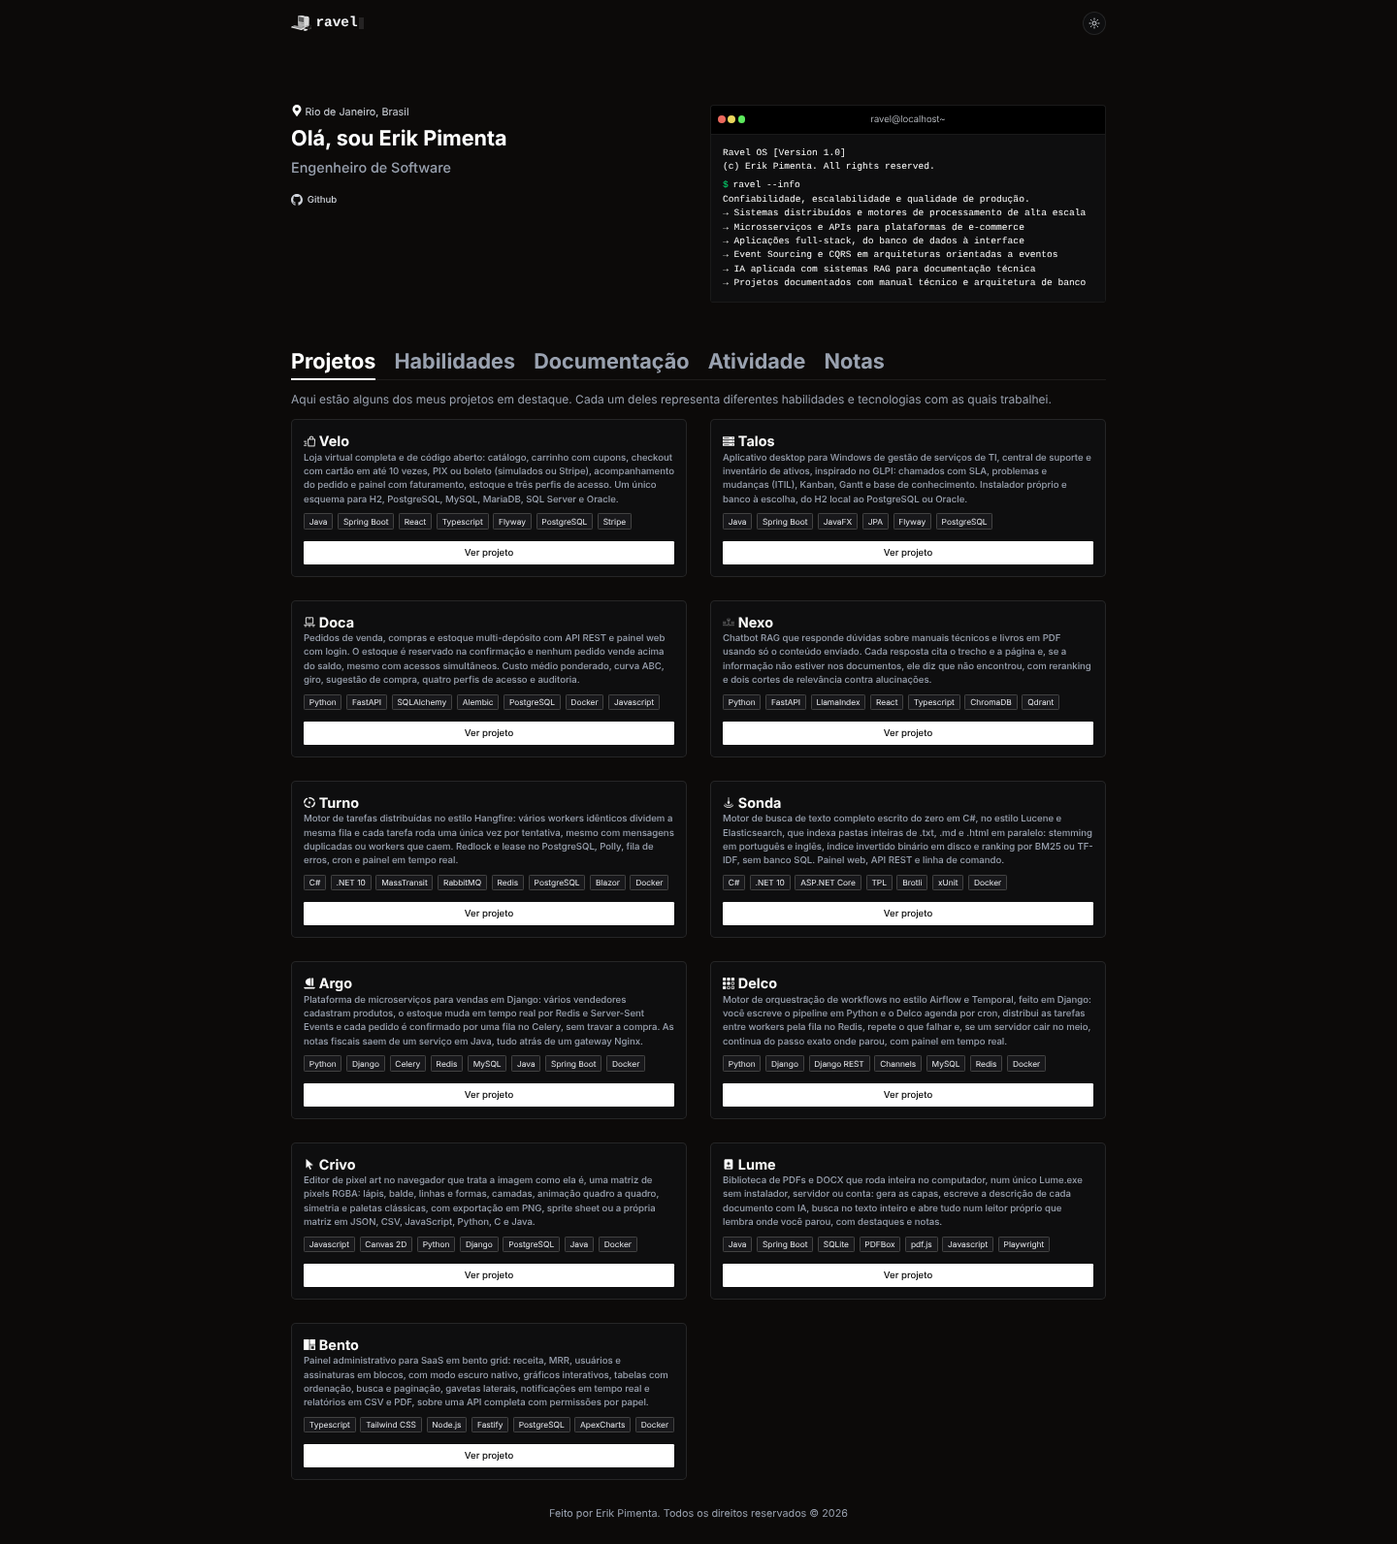
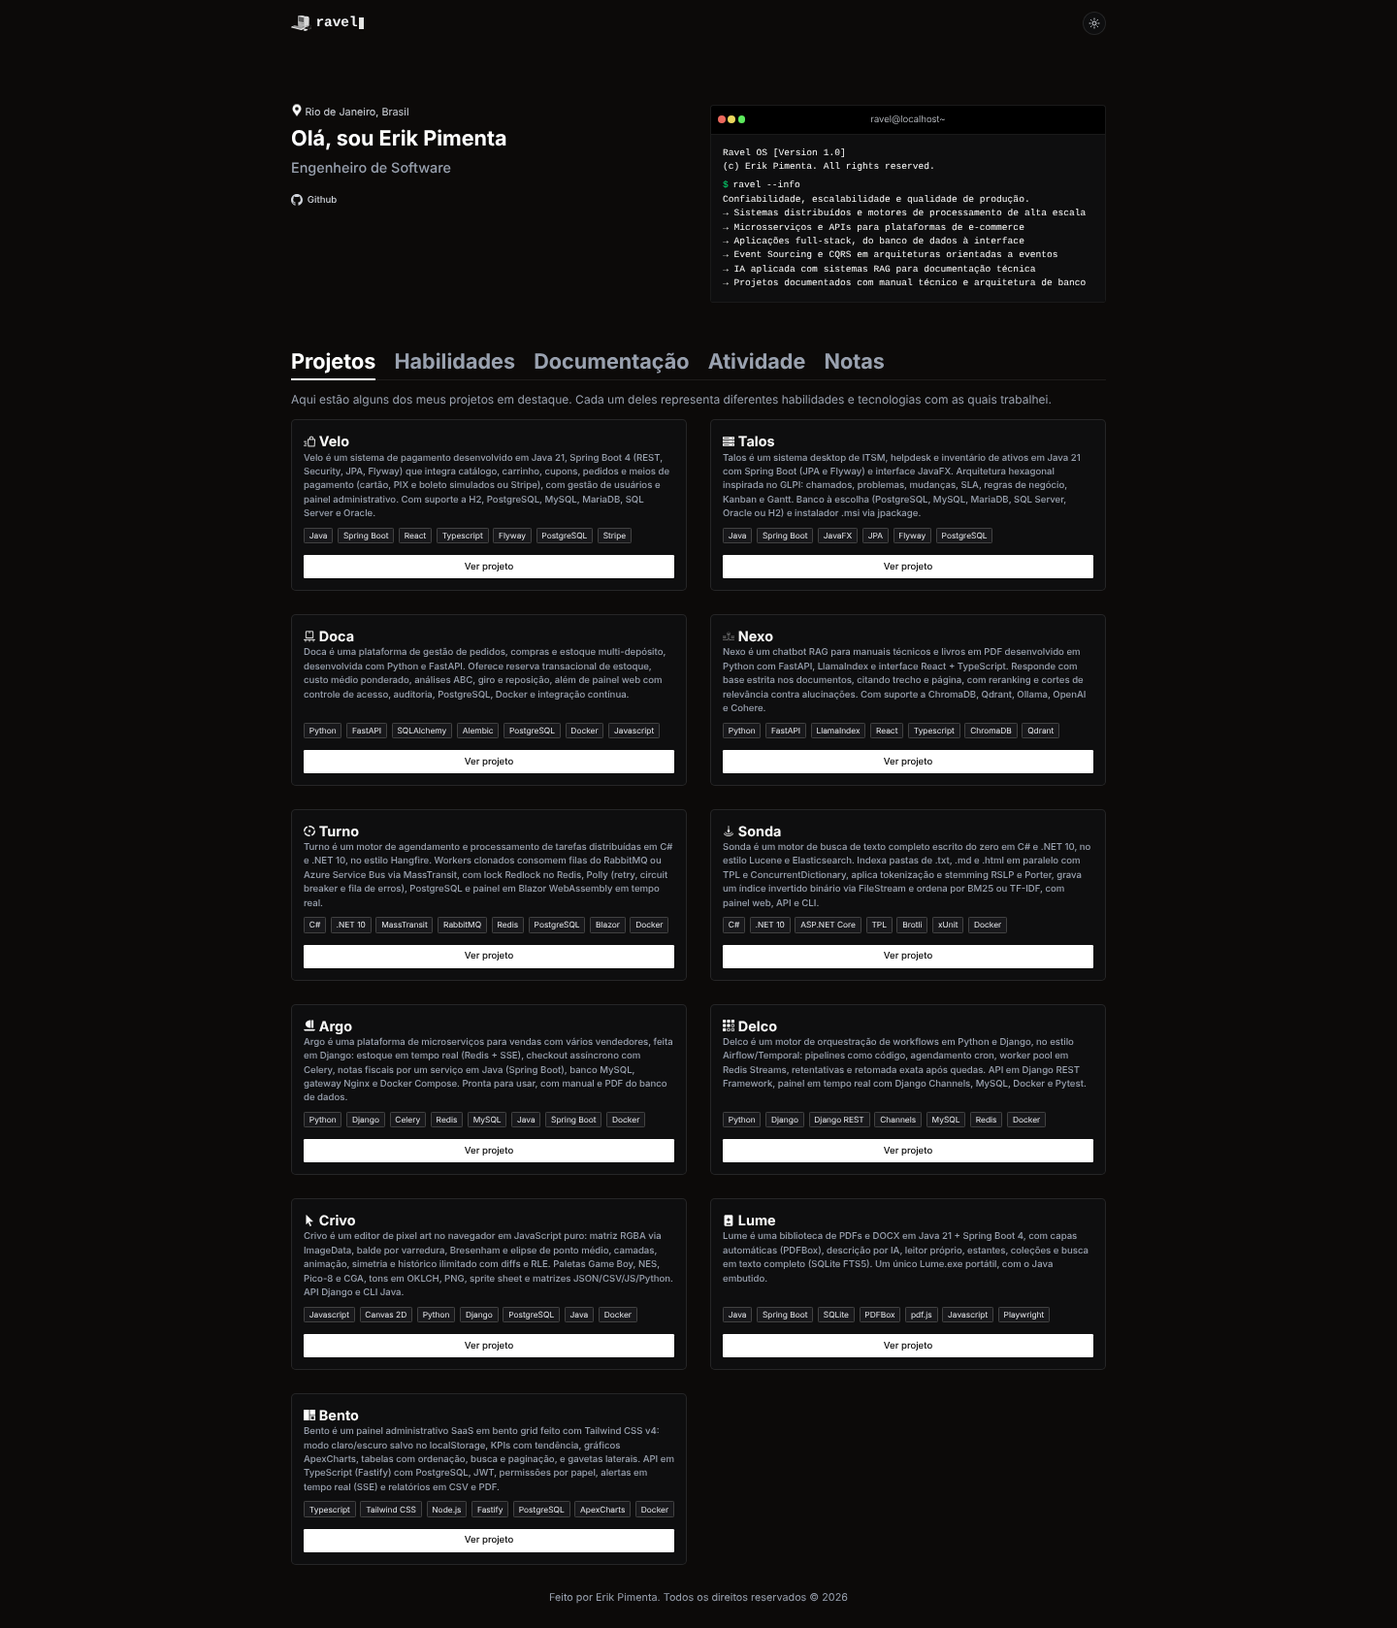
Descrições dos projetos iguais às do GitHub

diff --git a/js/projetos.js b/js/projetos.js
@@ -2,77 +2,77 @@ const PROJETOS = [
 	{
 		titulo: "Velo",
 		icone: "assets/projetos/velo.png?v=3",
-		descricao: "Loja virtual completa e de código aberto: catálogo, carrinho com cupons, checkout com cartão em até 10 vezes, PIX ou boleto (simulados ou Stripe), acompanhamento do pedido e painel com faturamento, estoque e três perfis de acesso. Um único esquema para H2, PostgreSQL, MySQL, MariaDB, SQL Server e Oracle.",
+		descricao: "Velo é um sistema de pagamento desenvolvido em Java 21, Spring Boot 4 (REST, Security, JPA, Flyway) que integra catálogo, carrinho, cupons, pedidos e meios de pagamento (cartão, PIX e boleto simulados ou Stripe), com gestão de usuários e painel administrativo. Com suporte a H2, PostgreSQL, MySQL, MariaDB, SQL Server e Oracle.",
 		link: "https://github.com/ravelroot/Payment-and-Checkout-System",
 		tecnologias: ["Java", "Spring Boot", "React", "Typescript", "Flyway", "PostgreSQL", "Stripe"]
 	},
 	{
 		titulo: "Talos",
 		icone: "assets/projetos/talos.png?v=2",
-		descricao: "Aplicativo desktop para Windows de gestão de serviços de TI, central de suporte e inventário de ativos, inspirado no GLPI: chamados com SLA, problemas e mudanças (ITIL), Kanban, Gantt e base de conhecimento. Instalador próprio e banco à escolha, do H2 local ao PostgreSQL ou Oracle.",
+		descricao: "Talos é um sistema desktop de ITSM, helpdesk e inventário de ativos em Java 21 com Spring Boot (JPA e Flyway) e interface JavaFX. Arquitetura hexagonal inspirada no GLPI: chamados, problemas, mudanças, SLA, regras de negócio, Kanban e Gantt. Banco à escolha (PostgreSQL, MySQL, MariaDB, SQL Server, Oracle ou H2) e instalador .msi via jpackage.",
 		link: "https://github.com/ravelroot/Information-Technology-Service-Management",
 		tecnologias: ["Java", "Spring Boot", "JavaFX", "JPA", "Flyway", "PostgreSQL"]
 	},
 	{
 		titulo: "Doca",
 		icone: "assets/projetos/doca.png",
-		descricao: "Pedidos de venda, compras e estoque multi-depósito com API REST e painel web com login. O estoque é reservado na confirmação e nenhum pedido vende acima do saldo, mesmo com acessos simultâneos. Custo médio ponderado, curva ABC, giro, sugestão de compra, quatro perfis de acesso e auditoria.",
+		descricao: "Doca é uma plataforma de gestão de pedidos, compras e estoque multi-depósito, desenvolvida com Python e FastAPI. Oferece reserva transacional de estoque, custo médio ponderado, análises ABC, giro e reposição, além de painel web com controle de acesso, auditoria, PostgreSQL, Docker e integração contínua.",
 		link: "https://github.com/ravelroot/Order-and-Inventory-System",
 		tecnologias: ["Python", "FastAPI", "SQLAlchemy", "Alembic", "PostgreSQL", "Docker", "Javascript"]
 	},
 	{
 		titulo: "Nexo",
 		icone: "assets/projetos/nexo.png",
-		descricao: "Chatbot RAG que responde dúvidas sobre manuais técnicos e livros em PDF usando só o conteúdo enviado. Cada resposta cita o trecho e a página e, se a informação não estiver nos documentos, ele diz que não encontrou, com reranking e dois cortes de relevância contra alucinações.",
+		descricao: "Nexo é um chatbot RAG para manuais técnicos e livros em PDF desenvolvido em Python com FastAPI, LlamaIndex e interface React + TypeScript. Responde com base estrita nos documentos, citando trecho e página, com reranking e cortes de relevância contra alucinações. Com suporte a ChromaDB, Qdrant, Ollama, OpenAI e Cohere.",
 		link: "https://github.com/ravelroot/Retrieval-Augmented-QA-System",
 		tecnologias: ["Python", "FastAPI", "LlamaIndex", "React", "Typescript", "ChromaDB", "Qdrant"]
 	},
 	{
 		titulo: "Turno",
 		icone: "assets/projetos/turno.png",
-		descricao: "Motor de tarefas distribuídas no estilo Hangfire: vários workers idênticos dividem a mesma fila e cada tarefa roda uma única vez por tentativa, mesmo com mensagens duplicadas ou workers que caem. Redlock e lease no PostgreSQL, Polly, fila de erros, cron e painel em tempo real.",
+		descricao: "Turno é um motor de agendamento e processamento de tarefas distribuídas em C# e .NET 10, no estilo Hangfire. Workers clonados consomem filas do RabbitMQ ou Azure Service Bus via MassTransit, com lock Redlock no Redis, Polly (retry, circuit breaker e fila de erros), PostgreSQL e painel em Blazor WebAssembly em tempo real.",
 		link: "https://github.com/ravelroot/Distributed-Task-Processing-Engine",
 		tecnologias: ["C#", ".NET 10", "MassTransit", "RabbitMQ", "Redis", "PostgreSQL", "Blazor", "Docker"]
 	},
 	{
 		titulo: "Sonda",
 		icone: "assets/projetos/sonda.png",
-		descricao: "Motor de busca de texto completo escrito do zero em C#, no estilo Lucene e Elasticsearch, que indexa pastas inteiras de .txt, .md e .html em paralelo: stemming em português e inglês, índice invertido binário em disco e ranking por BM25 ou TF-IDF, sem banco SQL. Painel web, API REST e linha de comando.",
+		descricao: "Sonda é um motor de busca de texto completo escrito do zero em C# e .NET 10, no estilo Lucene e Elasticsearch. Indexa pastas de .txt, .md e .html em paralelo com TPL e ConcurrentDictionary, aplica tokenização e stemming RSLP e Porter, grava um índice invertido binário via FileStream e ordena por BM25 ou TF-IDF, com painel web, API e CLI.",
 		link: "https://github.com/ravelroot/Inverted-Index-Search-Engine",
 		tecnologias: ["C#", ".NET 10", "ASP.NET Core", "TPL", "Brotli", "xUnit", "Docker"]
 	},
 	{
 		titulo: "Argo",
 		icone: "assets/projetos/argo.png?v=2",
-		descricao: "Plataforma de microserviços para vendas em Django: vários vendedores cadastram produtos, o estoque muda em tempo real por Redis e Server-Sent Events e cada pedido é confirmado por uma fila no Celery, sem travar a compra. As notas fiscais saem de um serviço em Java, tudo atrás de um gateway Nginx.",
+		descricao: "Argo é uma plataforma de microserviços para vendas com vários vendedores, feita em Django: estoque em tempo real (Redis + SSE), checkout assíncrono com Celery, notas fiscais por um serviço em Java (Spring Boot), banco MySQL, gateway Nginx e Docker Compose. Pronta para usar, com manual e PDF do banco de dados.",
 		link: "https://github.com/ravelroot/E-commerce-Microservices-Platform",
 		tecnologias: ["Python", "Django", "Celery", "Redis", "MySQL", "Java", "Spring Boot", "Docker"]
 	},
 	{
 		titulo: "Delco",
 		icone: "assets/projetos/delco.png",
-		descricao: "Motor de orquestração de workflows no estilo Airflow e Temporal, feito em Django: você escreve o pipeline em Python e o Delco agenda por cron, distribui as tarefas entre workers pela fila no Redis, repete o que falhar e, se um servidor cair no meio, continua do passo exato onde parou, com painel em tempo real.",
+		descricao: "Delco é um motor de orquestração de workflows em Python e Django, no estilo Airflow/Temporal: pipelines como código, agendamento cron, worker pool em Redis Streams, retentativas e retomada exata após quedas. API em Django REST Framework, painel em tempo real com Django Channels, MySQL, Docker e Pytest.",
 		link: "https://github.com/ravelroot/Workflow-Orchestration-Engine",
 		tecnologias: ["Python", "Django", "Django REST", "Channels", "MySQL", "Redis", "Docker"]
 	},
 	{
 		titulo: "Crivo",
 		icone: "assets/projetos/crivo.png",
-		descricao: "Editor de pixel art no navegador que trata a imagem como ela é, uma matriz de pixels RGBA: lápis, balde, linhas e formas, camadas, animação quadro a quadro, simetria e paletas clássicas, com exportação em PNG, sprite sheet ou a própria matriz em JSON, CSV, JavaScript, Python, C e Java.",
+		descricao: "Crivo é um editor de pixel art no navegador em JavaScript puro: matriz RGBA via ImageData, balde por varredura, Bresenham e elipse de ponto médio, camadas, animação, simetria e histórico ilimitado com diffs e RLE. Paletas Game Boy, NES, Pico-8 e CGA, tons em OKLCH, PNG, sprite sheet e matrizes JSON/CSV/JS/Python. API Django e CLI Java.",
 		link: "https://github.com/ravelroot/Pixel-Art-Matrix-Editor",
 		tecnologias: ["Javascript", "Canvas 2D", "Python", "Django", "PostgreSQL", "Java", "Docker"]
 	},
 	{
 		titulo: "Lume",
 		icone: "assets/projetos/lume.png",
-		descricao: "Biblioteca de PDFs e DOCX que roda inteira no computador, num único Lume.exe sem instalador, servidor ou conta: gera as capas, escreve a descrição de cada documento com IA, busca no texto inteiro e abre tudo num leitor próprio que lembra onde você parou, com destaques e notas.",
+		descricao: "Lume é uma biblioteca de PDFs e DOCX em Java 21 + Spring Boot 4, com capas automáticas (PDFBox), descrição por IA, leitor próprio, estantes, coleções e busca em texto completo (SQLite FTS5). Um único Lume.exe portátil, com o Java embutido.",
 		link: "https://github.com/ravelroot/Document-Library-Desktop",
 		tecnologias: ["Java", "Spring Boot", "SQLite", "PDFBox", "pdf.js", "Javascript", "Playwright"]
 	},
 	{
 		titulo: "Bento",
 		icone: "assets/projetos/bento.png?v=2",
-		descricao: "Painel administrativo para SaaS em bento grid: receita, MRR, usuários e assinaturas em blocos, com modo escuro nativo, gráficos interativos, tabelas com ordenação, busca e paginação, gavetas laterais, notificações em tempo real e relatórios em CSV e PDF, sobre uma API completa com permissões por papel.",
+		descricao: "Bento é um painel administrativo SaaS em bento grid feito com Tailwind CSS v4: modo claro/escuro salvo no localStorage, KPIs com tendência, gráficos ApexCharts, tabelas com ordenação, busca e paginação, e gavetas laterais. API em TypeScript (Fastify) com PostgreSQL, JWT, permissões por papel, alertas em tempo real (SSE) e relatórios em CSV e PDF.",
 		link: "https://github.com/ravelroot/Data-Driven-Admin-Panel",
 		tecnologias: ["Typescript", "Tailwind CSS", "Node.js", "Fastify", "PostgreSQL", "ApexCharts", "Docker"]
 	}

diff --git a/index.html b/index.html
@@ -132,7 +132,7 @@
 		</footer>
 	</div>
 
-	<script src="js/projetos.js?v=14"></script>
+	<script src="js/projetos.js?v=15"></script>
 	<script src="js/habilidades.js?v=4"></script>
 	<script src="js/documentacao.js?v=3"></script>
 	<script src="js/atividade.js?v=4"></script>

diff --git a/README.md b/README.md
@@ -20,7 +20,7 @@ HTML5 · CSS3 · JavaScript (ES6+) · API do GitHub · Responsivo · Zero depend
 ---
 
 <p align="center">
-  <img src="assets/preview-portfolio.png?v=14" alt="Prévia do portfólio">
+  <img src="assets/preview-portfolio.png?v=15" alt="Prévia do portfólio">
 </p>
 
 <p align="center"><b>Tema claro, na aba Habilidades</b></p>
@@ -80,17 +80,17 @@ HTML5 · CSS3 · JavaScript (ES6+) · API do GitHub · Responsivo · Zero depend
 
 | Projeto | O que é | Tecnologias |
 | --- | --- | --- |
-| [**Velo**](https://github.com/ravelroot/Payment-and-Checkout-System) | Loja virtual completa e de código aberto: catálogo, carrinho com cupons, checkout com cartão, PIX ou boleto (simulados ou Stripe), acompanhamento do pedido e painel com faturamento, estoque e três perfis de acesso. | Java 21 · Spring Boot 4 · React 19 · TypeScript · Flyway · 6 bancos de dados |
-| [**Talos**](https://github.com/ravelroot/Information-Technology-Service-Management) | Aplicativo desktop para Windows de gestão de serviços de TI, central de suporte e inventário de ativos, inspirado no GLPI: chamados com SLA, problemas e mudanças (ITIL), Kanban, Gantt e base de conhecimento. | Java 21 · Spring Boot 4 · JavaFX 21 · JPA · Flyway · Arquitetura hexagonal · 6 bancos de dados |
-| [**Doca**](https://github.com/ravelroot/Order-and-Inventory-System) | Pedidos de venda, compras e estoque multi-depósito com API REST e painel web: reserva na confirmação sem venda dupla, mesmo com acessos simultâneos, custo médio ponderado e curva ABC. | Python · FastAPI · SQLAlchemy 2 · Alembic · PostgreSQL ou SQLite · Docker · GitHub Actions |
-| [**Nexo**](https://github.com/ravelroot/Retrieval-Augmented-QA-System) | Chatbot RAG para manuais técnicos e livros em PDF que responde só com base nos documentos, citando trecho e página, e diz quando não encontrou a informação. | Python · FastAPI · LlamaIndex · ChromaDB/Qdrant · Ollama/OpenAI · React 19 · TypeScript |
-| [**Turno**](https://github.com/ravelroot/Distributed-Task-Processing-Engine) | Motor de tarefas distribuídas no estilo Hangfire: vários workers dividem a mesma fila e cada tarefa roda uma única vez por tentativa, com retentativas, fila de erros, cron e painel em tempo real. | C# · .NET 10 · MassTransit · RabbitMQ ou Azure Service Bus · Redis (Redlock) · PostgreSQL · Blazor · Docker |
-| [**Sonda**](https://github.com/ravelroot/Inverted-Index-Search-Engine) | Motor de busca de texto completo escrito do zero em C#, no estilo Lucene e Elasticsearch, com indexação paralela, índice invertido binário em disco e ranking por BM25 ou TF-IDF, sem banco SQL. | C# · .NET 10 · ASP.NET Core · Task Parallel Library · Brotli · xUnit · Docker |
-| [**Argo**](https://github.com/ravelroot/E-commerce-Microservices-Platform) | Plataforma de microserviços para vendas com vários vendedores, em Django: estoque em tempo real, pedidos confirmados por fila sem travar a compra e notas fiscais emitidas por um serviço em Java. | Python 3.13 · Django 6 · Django REST Framework · Celery · Redis · MySQL · Java 21 · Spring Boot 4 · Nginx · Docker |
-| [**Delco**](https://github.com/ravelroot/Workflow-Orchestration-Engine) | Motor de orquestração de workflows no estilo Airflow e Temporal, em Django: pipelines em Python, agenda cron, pool de workers em fila e retomada do passo exato após uma queda, com painel em tempo real. | Python 3.13 · Django 6 · Django REST Framework · Channels · MySQL · Redis Streams · Docker |
-| [**Crivo**](https://github.com/ravelroot/Pixel-Art-Matrix-Editor) | Editor de pixel art no navegador que trata a imagem como uma matriz de pixels RGBA, com camadas, animação, paletas e exportação da matriz em JSON, CSV, JavaScript, Python, C e Java. | JavaScript · Canvas 2D · Python 3.13 · Django 6.1 · PostgreSQL 17 · Java 21 · Docker |
-| [**Lume**](https://github.com/ravelroot/Document-Library-Desktop) | Biblioteca de PDFs e DOCX que roda inteira no computador, num único Lume.exe sem instalador, servidor ou conta, com capas automáticas, descrição por IA, busca no texto inteiro e leitor próprio. | Java 21 · Spring Boot 4 · SQLite + FTS5 · Apache PDFBox · pdf.js · Playwright |
-| [**Bento**](https://github.com/ravelroot/Data-Driven-Admin-Panel) | Painel administrativo para SaaS em bento grid, com modo escuro nativo, gráficos interativos, tabelas, gavetas laterais, notificações em tempo real e relatórios em CSV e PDF, sobre uma API com permissões por papel. | TypeScript · Tailwind CSS 4 · Node.js 22 · Fastify 5 · PostgreSQL 18 ou PGlite · ApexCharts · Docker |
+| [**Velo**](https://github.com/ravelroot/Payment-and-Checkout-System) | Velo é um sistema de pagamento desenvolvido em Java 21, Spring Boot 4 (REST, Security, JPA, Flyway) que integra catálogo, carrinho, cupons, pedidos e meios de pagamento (cartão, PIX e boleto simulados ou Stripe), com gestão de usuários e painel administrativo. Com suporte a H2, PostgreSQL, MySQL, MariaDB, SQL Server e Oracle. | Java 21 · Spring Boot 4 · React 19 · TypeScript · Flyway · 6 bancos de dados |
+| [**Talos**](https://github.com/ravelroot/Information-Technology-Service-Management) | Talos é um sistema desktop de ITSM, helpdesk e inventário de ativos em Java 21 com Spring Boot (JPA e Flyway) e interface JavaFX. Arquitetura hexagonal inspirada no GLPI: chamados, problemas, mudanças, SLA, regras de negócio, Kanban e Gantt. Banco à escolha (PostgreSQL, MySQL, MariaDB, SQL Server, Oracle ou H2) e instalador .msi via jpackage. | Java 21 · Spring Boot 4 · JavaFX 21 · JPA · Flyway · Arquitetura hexagonal · 6 bancos de dados |
+| [**Doca**](https://github.com/ravelroot/Order-and-Inventory-System) | Doca é uma plataforma de gestão de pedidos, compras e estoque multi-depósito, desenvolvida com Python e FastAPI. Oferece reserva transacional de estoque, custo médio ponderado, análises ABC, giro e reposição, além de painel web com controle de acesso, auditoria, PostgreSQL, Docker e integração contínua. | Python · FastAPI · SQLAlchemy 2 · Alembic · PostgreSQL ou SQLite · Docker · GitHub Actions |
+| [**Nexo**](https://github.com/ravelroot/Retrieval-Augmented-QA-System) | Nexo é um chatbot RAG para manuais técnicos e livros em PDF desenvolvido em Python com FastAPI, LlamaIndex e interface React + TypeScript. Responde com base estrita nos documentos, citando trecho e página, com reranking e cortes de relevância contra alucinações. Com suporte a ChromaDB, Qdrant, Ollama, OpenAI e Cohere. | Python · FastAPI · LlamaIndex · ChromaDB/Qdrant · Ollama/OpenAI · React 19 · TypeScript |
+| [**Turno**](https://github.com/ravelroot/Distributed-Task-Processing-Engine) | Turno é um motor de agendamento e processamento de tarefas distribuídas em C# e .NET 10, no estilo Hangfire. Workers clonados consomem filas do RabbitMQ ou Azure Service Bus via MassTransit, com lock Redlock no Redis, Polly (retry, circuit breaker e fila de erros), PostgreSQL e painel em Blazor WebAssembly em tempo real. | C# · .NET 10 · MassTransit · RabbitMQ ou Azure Service Bus · Redis (Redlock) · PostgreSQL · Blazor · Docker |
+| [**Sonda**](https://github.com/ravelroot/Inverted-Index-Search-Engine) | Sonda é um motor de busca de texto completo escrito do zero em C# e .NET 10, no estilo Lucene e Elasticsearch. Indexa pastas de .txt, .md e .html em paralelo com TPL e ConcurrentDictionary, aplica tokenização e stemming RSLP e Porter, grava um índice invertido binário via FileStream e ordena por BM25 ou TF-IDF, com painel web, API e CLI. | C# · .NET 10 · ASP.NET Core · Task Parallel Library · Brotli · xUnit · Docker |
+| [**Argo**](https://github.com/ravelroot/E-commerce-Microservices-Platform) | Argo é uma plataforma de microserviços para vendas com vários vendedores, feita em Django: estoque em tempo real (Redis + SSE), checkout assíncrono com Celery, notas fiscais por um serviço em Java (Spring Boot), banco MySQL, gateway Nginx e Docker Compose. Pronta para usar, com manual e PDF do banco de dados. | Python 3.13 · Django 6 · Django REST Framework · Celery · Redis · MySQL · Java 21 · Spring Boot 4 · Nginx · Docker |
+| [**Delco**](https://github.com/ravelroot/Workflow-Orchestration-Engine) | Delco é um motor de orquestração de workflows em Python e Django, no estilo Airflow/Temporal: pipelines como código, agendamento cron, worker pool em Redis Streams, retentativas e retomada exata após quedas. API em Django REST Framework, painel em tempo real com Django Channels, MySQL, Docker e Pytest. | Python 3.13 · Django 6 · Django REST Framework · Channels · MySQL · Redis Streams · Docker |
+| [**Crivo**](https://github.com/ravelroot/Pixel-Art-Matrix-Editor) | Crivo é um editor de pixel art no navegador em JavaScript puro: matriz RGBA via ImageData, balde por varredura, Bresenham e elipse de ponto médio, camadas, animação, simetria e histórico ilimitado com diffs e RLE. Paletas Game Boy, NES, Pico-8 e CGA, tons em OKLCH, PNG, sprite sheet e matrizes JSON/CSV/JS/Python. API Django e CLI Java. | JavaScript · Canvas 2D · Python 3.13 · Django 6.1 · PostgreSQL 17 · Java 21 · Docker |
+| [**Lume**](https://github.com/ravelroot/Document-Library-Desktop) | Lume é uma biblioteca de PDFs e DOCX em Java 21 + Spring Boot 4, com capas automáticas (PDFBox), descrição por IA, leitor próprio, estantes, coleções e busca em texto completo (SQLite FTS5). Um único Lume.exe portátil, com o Java embutido. | Java 21 · Spring Boot 4 · SQLite + FTS5 · Apache PDFBox · pdf.js · Playwright |
+| [**Bento**](https://github.com/ravelroot/Data-Driven-Admin-Panel) | Bento é um painel administrativo SaaS em bento grid feito com Tailwind CSS v4: modo claro/escuro salvo no localStorage, KPIs com tendência, gráficos ApexCharts, tabelas com ordenação, busca e paginação, e gavetas laterais. API em TypeScript (Fastify) com PostgreSQL, JWT, permissões por papel, alertas em tempo real (SSE) e relatórios em CSV e PDF. | TypeScript · Tailwind CSS 4 · Node.js 22 · Fastify 5 · PostgreSQL 18 ou PGlite · ApexCharts · Docker |
 
 ## Como rodar
 
